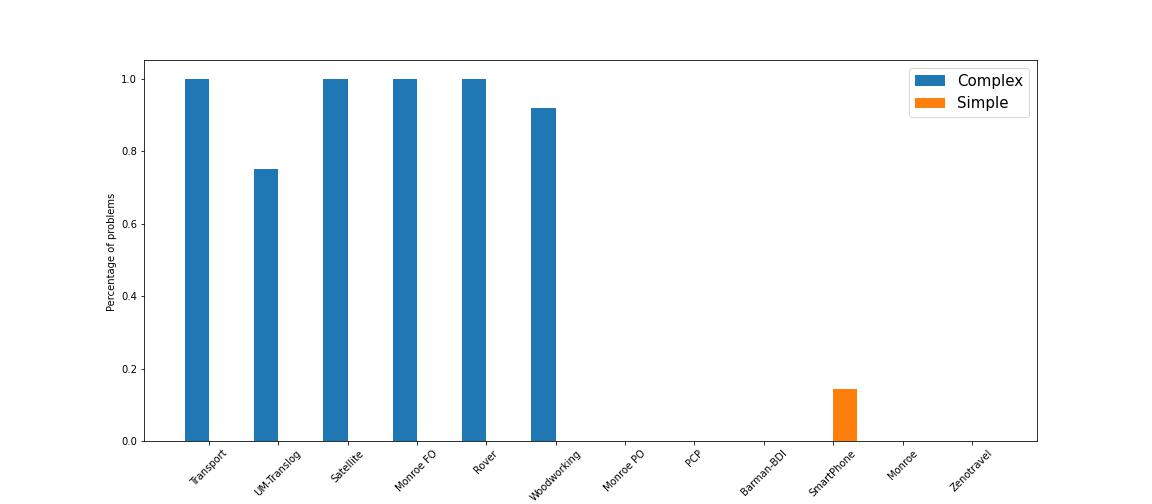
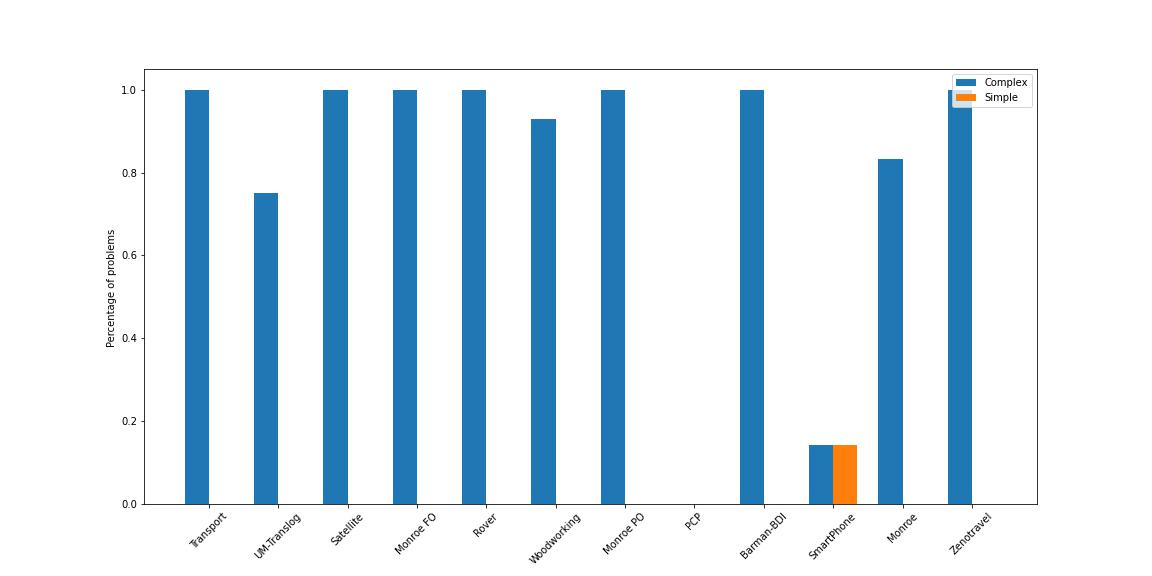
semi-final draft?

diff --git a/paper/paper-mainfile.tex b/paper/paper-mainfile.tex
@@ -327,11 +327,8 @@ $f' = f(o_1, ..., o_n)$, where $o_1, ..., o_n$ are arbitrary objects of the appr
 
 
 
-\subsection{Complex Inference of Effects for Compound Tasks (for Grounded Domain) }
-The work by~\cite{ConnyPreEstimation}, details a way to infer a subset of the mandatory preconditions and effects. 
-
-\emph{Mandatory preconditions} of a compound task $c$ are facts that hold in every state for which there exists an executable refinement. So, they are required in every state in which a refinement of c shall be executed: prec(c) := $\cap_{s \in E(c)}  s$
-if $E(c) \neq \emptyset$ and $\Pre(c) := \ensuremath{\textit{undef}}$ otherwise.
+\subsection{Complex Inference of Preconditions and Effects for Compound Tasks (for Grounded Domain) }
+The work by~\cite{ConnyPreEstimation}, details a way to infer executability-relaxed preconditions and effects. Specifically, for a compound task $c$, they are a subset of the mentioned literals described in the Simple Inference section, and a super-set of the actual preconditions and effects for any given refinement and execution of a task $c$.
 
 %State-independent positive and negative effects (cf. their Def. 4) of a compound task c are facts that are added or deleted, resp., by the successful execution of a refinement of c, independent of the state in which the task is executed, i.e.
 %$$ \RelEffPlus := ( \bigcap_{s \in E(c)} \bigcap_{s' \in R_s(c)} s') \backslash  \bigcap_{s \in E(c)} s    $$
@@ -358,8 +355,12 @@ the precondition relaxation can make further refinements executable that produce
 effects that can not be achieved in the non-relaxed domain. 
 In other words, we can calculate a super-set, that might contain some false candidates, of the real preconditions and effects that might occur after any execution of $c$, i.e.\  $\PossEffMinus \subseteq \RelPossEffMinus$, and $\PossEffPlus  \subseteq \RelPossEffPlus$.
 
+\emph{Mandatory preconditions} of a compound task $c$ are facts that hold in every state for which there exists an executable refinement. So, they are required in every state in which a refinement of c shall be executed: prec(c) := $\cap_{s \in E(c)}  s$
+if $E(c) \neq \emptyset$ and $\Pre(c) := \ensuremath{\textit{undef}}$ otherwise.
 
-There exists a polynomial-time algorithm for inferring the mandatory preconditions and precondition-relaxed effects, see \cite{ConnyPreEstimation} for details.
+A fact $f \in F$ is an \emph{executability-relaxed precondition} of $c$ if and only if for all t.o. refinements (ignoring executability of the refinement) $\langle a_0 ... a_n \rangle$ of $c$ there exists an action $a_i$ with $f \in \prec(a_i)$ and there does not exist an action $a_j$ with $j < i$ and $f \in add(a_j)$, where $i, j \in \{0, ..., n\}$.
+
+There exists a polynomial-time algorithm for inferring the executability-relaxed preconditions and precondition-relaxed effects, see \cite{ConnyPreEstimation} for details.
 In this paper, we will be utilising both of these, as seen in the next section.
 %the precondition-relaxed possible effects, which may hold after at least one refinement of c.
 
@@ -484,25 +485,36 @@ We now discuss the implications of the above-described linearization procedure.
 	If all methods in a problem meet the linearization criteria, then the problem meets the linearization criteria as well. 
 \end{description}
 
-We will now prove that our algorithm preserves at least one solution as long as Algorithm~\ref{alg:Algorithm1} uses simple inference or preconditions and possible effects from complex inference, and this criterion is met. 
 
-%\textit{Note that this criteria does not apply if using preconditions and guaranteed effects from complex inference}, as those are a \emph{subset} of possible preconditions and effects -- and thus there may be other, unknown effects that impact the executability of the sequence produced by Algorithm~\ref{alg:Algorithm1}. 
+%IT ONLY WORKS IF *ALL* METHODS CAN BE CYCLE-BREAKED.
 
 
-%Specifically, unknown mandatory delete effects may render the chose linearization un-executable. Otherwise, it is notable that mandatory effects all occur in the state.
+\begin{theorem} \label{thm:RelaxedPreconditions}
+	Given a POHTN planning problem $P$ and TOHTN problem $P'$ obtained from $P$ by using Algorithm~\ref{alg:Algorithm1}, \emph{only if $P$, the entire problem meets the linearization criteria},
+	then we know executability-relaxed preconditions for any $c$ are indeed the only ones needed to execute any refinement of $c$.
+\end{theorem}
+\begin{proof}
+	At least in our special case, we can be assured that the executability-relaxed preconditions actually work for us.
+	
+	For some method with at least two sub-tasks, $a$ and $b$,
+	the desired orderings are to put $a$ with $f \in \Add(a)$ before $a_i$ with $f \in \Pre(a_i)$. We're assuming no cycle-breaking, so this was actually achieved. If such a precondition can't be met this way, (such an $a_j$ does not exist, or the method already enforces that $b$ executes after $a_i$) by definition it must be in the executability-relaxed preconditions calculated. 
 
-%On the other hand possible preconditions and effects - if they never occur, that's also a problem the PO version has to deal with.
+	Therefore, any precondition of $c$'s children that can't be met by other placing $c$'s children before it is part - \emph{so it is indeed a super-set of actual preconditions}(assuming no cycle-breaking was needed).
+	
+	If even one partially ordered method did need cycle-breaking, than of course it means nothing - we may indeed need other preconditions to make refinements of $c$ executable. Then those results no longer hold.
+\end{proof}
 
+We use Theorem~\ref{thm:RelaxedPreconditions} as support for the following main result. We will now prove that our algorithm preserves at least one solution as long as Algorithm~\ref{alg:Algorithm1} uses simple inference or preconditions and possible effects from complex inference, and this criterion is met. 
 
 \begin{theorem}\label{thm:SpecialCase}
 	Given a POHTN planning problem $P$ and TOHTN problem $P'$ obtained from $P$ by using Algorithm~\ref{alg:Algorithm1}, if $P$ meets the linearization criteria and $sol(P)$ is non-empty, then $sol(P')$ will be non-empty as well.
 \end{theorem}
-\begin{proof}
+\begin{proof}	
 	Assume that there exists a solution in the PO domain. By using the same decomposition sequence in the linearized domain, we can produce the same set of actions as in the PO solution, but with a linearization of the actions decided by the linearized domain. Assume this sequence is $(a_0, a_1, ..., a_n)$. We then prove by induction over the sequence $(a_0, a_1, ..., a_n)$ that it is executable.
 	If $(a_0, a_1, ..., a_n)$ is not executable, that means there exists some action $a_k,  0 < k < n$ that is not executable in the corresponding state. The action $a_k$ could only be non-executable, if one or more of its preconditions was not met. Assume one of these unmet preconditions is for existence of the state variable $A$.
 	The action $a_k$ must be executable in some linearization of $\{a_0, ..., a_n\}$, as we assumed it was a PO solution. So there must exist an action $a_i$, $0 < i < n$, that will add A. Actions $a_0$ and $a_k$ must have a shared parent p in a Task Decomposition Tree. So p has subtasks $t_0$ and $t_k$ that are parents of $a_0$ and $a_k$ respectively. 
 	
-	The linearization of this method would have drawn an ordering $(t_i, t_k)$ due to the way the algorithm defines $prec^{*}, add^{*}$ etc. We are assuming that all methods meet the linearization criteria, so $(t_i, t_k)$ should not be required. This safely enforces $(a_k, a_0)$ ordering in the final TO plan, meaning $a_0$ is not the first action in the resulting total order imposed by the algorithm. In other words, if $a_k$’s precondition could be met by any action $a_i$, $a_i$ would be ordered in front of it. 
+	The linearization of this method would have drawn an ordering $(t_i, t_k)$ due to the way the algorithm defines $prec^{*}, add^{*}$ etc. We are assuming that all methods meet the linearization criteria, so $(t_i, t_k)$ should not be required, either directly or via inheritance from parent tasks. This safely enforces $(a_k, a_0)$ ordering in the final TO plan, meaning $a_0$ is not the first action in the resulting total order imposed by the algorithm. In other words, if $a_k$’s precondition could be met by any action $a_i$, $a_i$ would be ordered in front of it. 
 	
 	If $a_i$ does not exist then $a_k$ can never be executed for any linearization of $\{a_0, ...a_n\}$, contradicting the assumption that this was a PO solution. Since each action in the solution is executable, the entire sequence is executable linearization of actions produced by decomposition of initial task, i.e.\ the solution.
 \end{proof}
@@ -529,10 +541,7 @@ Given what's proven in Theorem~\ref{thm:notCompleteness} and \ref{thm:SpecialCas
 	A problem $P'$ obtained from applying Algorithm~\ref{alg:Algorithm1} to any arbitrary $P$ is a totally ordered problem, which are known to be decidable, as proven by \cite{Alford2015TightHTNBounds}.  
 \end{proof}
 
-
-\subsection{Theoretical Properties If Using Complex Inference}
-Unfortunately, no criteria for determining if a solution is guaranteed to exist when using the second inference method, since there may always be unknown preconditions and effects in the precondition-relaxed effects.
-
+ 
 
 
 
@@ -540,7 +549,7 @@ Unfortunately, no criteria for determining if a solution is guaranteed to exist 
 We compare the runtime of several state-of-the-art planning systems on some transformed POHTN problems. All problems are taken from two benchmark sets prepared for the International Planning Competition (IPC) 2020. The first set \footnote{https://github.com/panda-planner-dev/ipc2020-domains/tree/master/partial-order} was used in the partially ordered track in the 2020 IPC benchmark, while the second set \footnote{https://github.com/panda-planner-dev/domains/tree/master/partial-order} went un-used for various reasons. Each problem has the standard IPC time limit of 30 minutes. Any grounding and pre-processing time needed is included as part of the 'solving' time. Since the pre-processing may \emph{potentially} remove all solutions, where the planning system can prove that the pre-processing renders a problem unsolvable, we use the remaining time to solve the original problem, called a \textit{re-run}.
 
 \subsection{Hardware and Planning Systems}
-The empirical evaluation was conducted on a machine with 30GiB of memory and 4 vCPUs, each with 2 GiB RAM. Recent work by \cite{HTN2SAS} shows that the PO panda$_\pi$, achieved similar coverage and slightly lower IPC score than all TO planners tested. %Lilotane by \cite{Lilotane} is an TOHTN solver and the IPC 2020 runner-up. The winner, HyperTensioN by \cite{hypertension} could not be tested due to lack of support for reading in optimisation metrics. 
+The empirical evaluation was conducted on a machine with 30GiB of memory and 4 vCPUs, each with 2 GiB RAM. Recent work by \cite{HTN2SAS} shows that the PO panda$_\pi$, achieved similar coverage and slightly lower IPC score than the best TO planner tested. Also tested is HyperTensioN by \cite{hypertension} an TOHTN solver and the IPC 2020 winner, and Lilotane by \cite{Lilotane} another TOHTN solver and the IPC 2020 runner-up. 
 
 We test the $panda_{\pi}$ solver by \cite{useClassicalHuristicICAPS18,useClassicalHeuristicIJCAI19,progressionsearchJAIR20} configured to use to turn the problem into a classical planning problem (in RC model), and Greedy best first search with visited lists. We try this search with 4 different heuristics: FF by \cite{FF}, Add by \cite{Add}, Filter by \cite{useClassicalHuristicICAPS18} and Landmark-cut by \cite{LM-Cut}. We compare the performance of panda$_\pi$ on the original problem and the pre-processed problem. The same setting is used for re-runs. We also test the latest version of TOHTN planners HTN2SAS, HyperTensioN and Lilotane on the transformed problems. Re-runs use panda$_{\pi}$ with the best heuristic(Add). 
 We test both Complex and Simple Inference for linearization.
@@ -556,9 +565,7 @@ The planner that has achieved the highest overall coverage and IPC score is ? pl
  
 Unfortunately, when using simple inference, there are very few problems for which all partially ordered methods are linearized without conflict.
 Fortunately, when using complex inference, most partially ordered methods in all problems are linearized without conflict.
-Figure~\ref{fig:ProblemsLinearizedWOCycleBreak} shows the comparison between the two.
-
-
+Figure~\ref{ffig:MethodsLinearizedWOCycleBreak} shows the comparison between the two.
 
 
 
@@ -643,12 +650,12 @@ Figure~\ref{fig:ProblemsLinearizedWOCycleBreak} shows the comparison between the
 	\centering
 	\caption{Coverage achieved, using Simple Inference on Lifted Problems}
 	\label{table:LiftedSimpleCoverage}
-	\scalebox{0.7} {
+	\scalebox{0.6} {
 		\begin{tabular}{lccccccccccccccccccl} 
 			\toprule 
-			&& \multicolumn{2}{c}{rc2(Add)} & \multicolumn{2}{c}{rc2(Filter)} & \multicolumn{2}{c}{rc2(FF)} & \multicolumn{2}{c}{rc2(LMC)}  & \multicolumn{2}{c}{Lilotane}\\ 
-			\cmidrule(lr){3-4} \cmidrule(lr){5-6} \cmidrule(lr){7-8} \cmidrule(lr){9-10} \cmidrule(lr){11-12}  
-			& max &PO & TO & PO & TO & PO & TO & PO &\multicolumn{2}{c}{ TO  } \\ 
+			&& \multicolumn{2}{c}{rc2(Add)} & \multicolumn{2}{c}{rc2(Filter)} & \multicolumn{2}{c}{rc2(FF)} & \multicolumn{2}{c}{rc2(LMC)}  & \multicolumn{2}{c}{Lilotane} & \multicolumn{2}{c}{HyperTensioN} \\  
+			\cmidrule(lr){3-4} \cmidrule(lr){5-6} \cmidrule(lr){7-8} \cmidrule(lr){9-10} \cmidrule(lr){11-12}   \cmidrule(lr){13-14} 
+			& max &PO & TO & PO & TO & PO & TO & PO &  TO  \\ 
 			\midrule 
 			Barman-BDI & 20 & 3.0 & \textbf{10.0} & 3.0 & \textbf{10.0} & 3.0 & \textbf{10.0} & 2.0 & \textbf{9.0} &\multicolumn{2}{c}{ \textbf{17.0}  } \\ 
 			Monroe Fully Observ.$^{7,7,7,5,0}$ & 25 & \textbf{25.0} & \textbf{25.0} & 18.0 & \textbf{22.0} & 22.0 & \textbf{23.0} & \textbf{15.0} & \textbf{15.0} &\multicolumn{2}{c}{ 18.0  } \\ 
@@ -678,12 +685,12 @@ Figure~\ref{fig:ProblemsLinearizedWOCycleBreak} shows the comparison between the
 	\centering
 	\caption{IPC score achieved, using Simple Inference on Lifted Problems}
 	\label{table:LiftedSimpleIPC}
-	\scalebox{0.7} {
+	\scalebox{0.6} {
 		\begin{tabular}{lccccccccccccccccccl} 
 			\toprule 
-			&& \multicolumn{2}{c}{rc2(Add)} & \multicolumn{2}{c}{rc2(Filter)} & \multicolumn{2}{c}{rc2(FF)} & \multicolumn{2}{c}{rc2(LMC)}  & \multicolumn{2}{c}{Lilotane} \\ 
-			\cmidrule(lr){3-4} \cmidrule(lr){5-6} \cmidrule(lr){7-8} \cmidrule(lr){9-10} \cmidrule(lr){11-12}  
-			& max &PO & TO & PO & TO & PO & TO & PO &\multicolumn{2}{c}{ TO  } \\ 
+			&& \multicolumn{2}{c}{rc2(Add)} & \multicolumn{2}{c}{rc2(Filter)} & \multicolumn{2}{c}{rc2(FF)} & \multicolumn{2}{c}{rc2(LMC)}  & \multicolumn{2}{c}{Lilotane} & \multicolumn{2}{c}{HyperTensioN} \\ 
+			\cmidrule(lr){3-4} \cmidrule(lr){5-6} \cmidrule(lr){7-8} \cmidrule(lr){9-10} \cmidrule(lr){11-12}   \cmidrule(lr){13-14} 
+			& max &PO & TO & PO & TO & PO & TO & PO & TO   \\ 
 			\midrule 
 			Barman-BDI & 1 & 0.07 & \textbf{0.38} & 0.07 & \textbf{0.34} & 0.07 & \textbf{0.35} & 0.05 & \textbf{0.23} &\multicolumn{2}{c}{ \textbf{0.72}  } \\ 
 			Monroe Fully Observ.$^{7,7,7,5,0}$ & 1 & \textbf{0.56} & 0.52 & 0.32 & \textbf{0.33} & \textbf{0.47} & 0.45 & \textbf{0.22} & 0.21 &\multicolumn{2}{c}{ 0.54  } \\ 
@@ -714,6 +721,27 @@ Figure~\ref{fig:ProblemsLinearizedWOCycleBreak} shows the comparison between the
 	\scalebox{0.8} {
 		\begin{tabular}{lccccccccccccccccl} 
 			\toprule 
+			&& \multicolumn{2}{c}{rc2(Add)} & \multicolumn{2}{c}{rc2(Filter)} & \multicolumn{2}{c}{rc2(FF)} & \multicolumn{2}{c}{rc2(LMC)} & \multicolumn{2}{c}{HyperTensioN} & \multicolumn{2}{c}{Lilotane} \\ 
+			\cmidrule(lr){3-4} \cmidrule(lr){5-6} \cmidrule(lr){7-8} \cmidrule(lr){9-10}     \cmidrule(lr){11-12} \cmidrule(lr){13-14}  
+			& max &PO & TO & PO & TO & PO & TO & PO & TO \\ 
+			\midrule 
+			Barman-BDI  \\ 
+			Monroe Fully Observ.$^{2}$   \\ 
+			Monroe Part. Observ.$^{2}$  \\ 
+			PCP$^{17}$  \\ 
+			Rover  \\ 
+			Satellite   \\  
+			Transport   \\ 
+			UM-Translog$^{1}$  \\ 
+			Woodworking$^{2}$  \\ 
+			\midrule 
+			Monroe   \\ 
+			SmartPhone$^{1}$   \\ 
+			Zenotravel   \\ 
+			\midrule 
+			Coverage  \\ 
+			Norm. coverage  \\ 
+			\bottomrule 
 		\end{tabular}  
 	}
 \end{table*}
@@ -722,10 +750,30 @@ Figure~\ref{fig:ProblemsLinearizedWOCycleBreak} shows the comparison between the
 	\centering
 	\caption{IPC score achieved, using Complex Inference}
 	\label{table:GroundedComplexIPC}.
-	\scalebox{0.9} {
+	\scalebox{0.8} {
 		\begin{tabular}{lccccccccccccccccl} 
 			\toprule 
-		\end{tabular}
+&& \multicolumn{2}{c}{rc2(Add)} & \multicolumn{2}{c}{rc2(Filter)} & \multicolumn{2}{c}{rc2(FF)} & \multicolumn{2}{c}{rc2(LMC)} & \multicolumn{2}{c}{HyperTensioN} & \multicolumn{2}{c}{Lilotane} \\ 
+\cmidrule(lr){3-4} \cmidrule(lr){5-6} \cmidrule(lr){7-8} \cmidrule(lr){9-10}   \cmidrule(lr){11-12} \cmidrule(lr){13-14}  
+& max &PO & TO & PO & TO & PO & TO & PO & TO \\ 
+\midrule 
+Barman-BDI  \\ 
+Monroe Fully Observ.$^{2}$   \\ 
+Monroe Part. Observ.$^{2}$  \\ 
+PCP$^{17}$  \\ 
+Rover  \\ 
+Satellite   \\  
+Transport   \\ 
+UM-Translog$^{1}$  \\ 
+Woodworking$^{2}$  \\ 
+\midrule 
+Monroe   \\ 
+SmartPhone$^{1}$   \\ 
+Zenotravel   \\ 
+\midrule 
+IPC score \\
+\bottomrule 
+\end{tabular}  
 	}
 \end{table*}
 
@@ -733,13 +781,20 @@ Figure~\ref{fig:ProblemsLinearizedWOCycleBreak} shows the comparison between the
 
 
 
-\begin{figure*}
-	\caption{Percentage of Problems Linearized Without Cycle-break for each Domain and each Inference Method}
-	\label{fig:ProblemsLinearizedWOCycleBreak}
-	\centering
-	\includegraphics[width=14cm]{figures/Lin_criteria_C_vs_S.jpg}
-\end{figure*}
+%\begin{figure*}
+%	\caption{Percentage of Problems Linearized Without Cycle-break for each Domain and each Inference Method}
+%	\label{fig:ProblemsLinearizedWOCycleBreak}
+%	\centering
+%	\includegraphics[width=14cm]{figures/Lin_criteria_C_vs_S.jpg}
+%\end{figure*}
 
+
+\begin{figure*}
+	\caption{For Grounded Problems, Average Percentage of Methods Linearized Without Cycle-break for Each Domain and for Each Inference Method}
+	\label{fig:MethodsLinearizedWOCycleBreak}
+	\centering
+	\includegraphics[width=14cm]{figures/Lin_average_C_vs_S.jpg}
+\end{figure*} 
 
 
 \section{Future Work}
